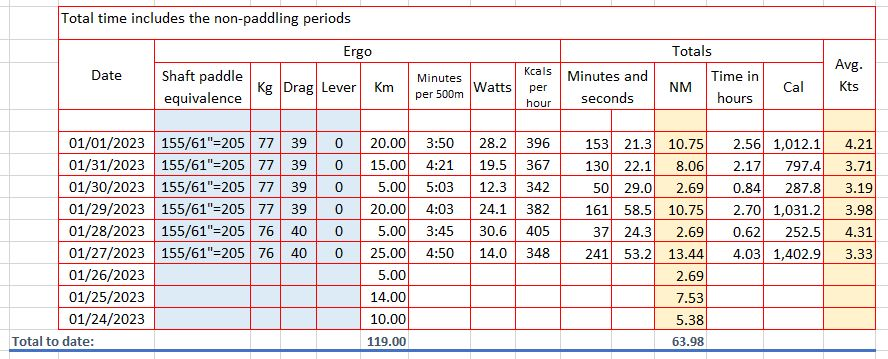
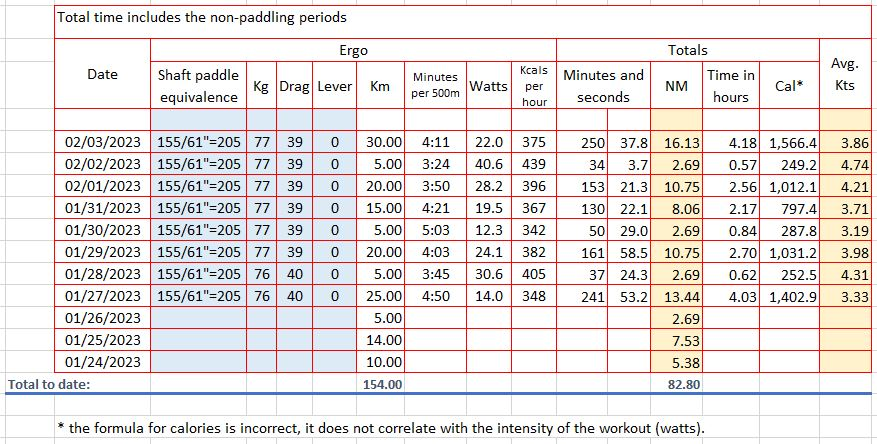
update

diff --git a/content/dry-run/log.md b/content/dry-run/log.md
@@ -4,11 +4,16 @@ date: 2023-02-01
 draft: false
 ---
 
-> February 1, 2023
+> February 3, 2023
 
-![February 1](/img/feb1.JPG)
+![February 3](/img/feb3.JPG)
 {{< center >}}
-64 nautical miles, or 119 Km
+82.8 nautical miles, or 154 Km
+{{< /center >}}
+
+![Stats](/img/Stats.JPG)
+{{< center >}}
+Stats
 {{< /center >}}
 
 [Xeon](https://www.kayakpro.com/xeon/) is a heavy-use Kayak Ergometer, that gives a true feel of on-the-water paddling.
@@ -18,9 +23,10 @@ draft: false
 Equivalent paddle length for Xeon
 {{< /center >}}
 
-![Stats](/img/Stats.JPG)
-{{< center >}}
-Stats
-{{< /center >}}
+```
+The correct way to manage fear is to gradually broaden your comfort zone until your comfort zone includes things that seemed previously impossible.
+
+Alex Honnold
+```
 
 \_
